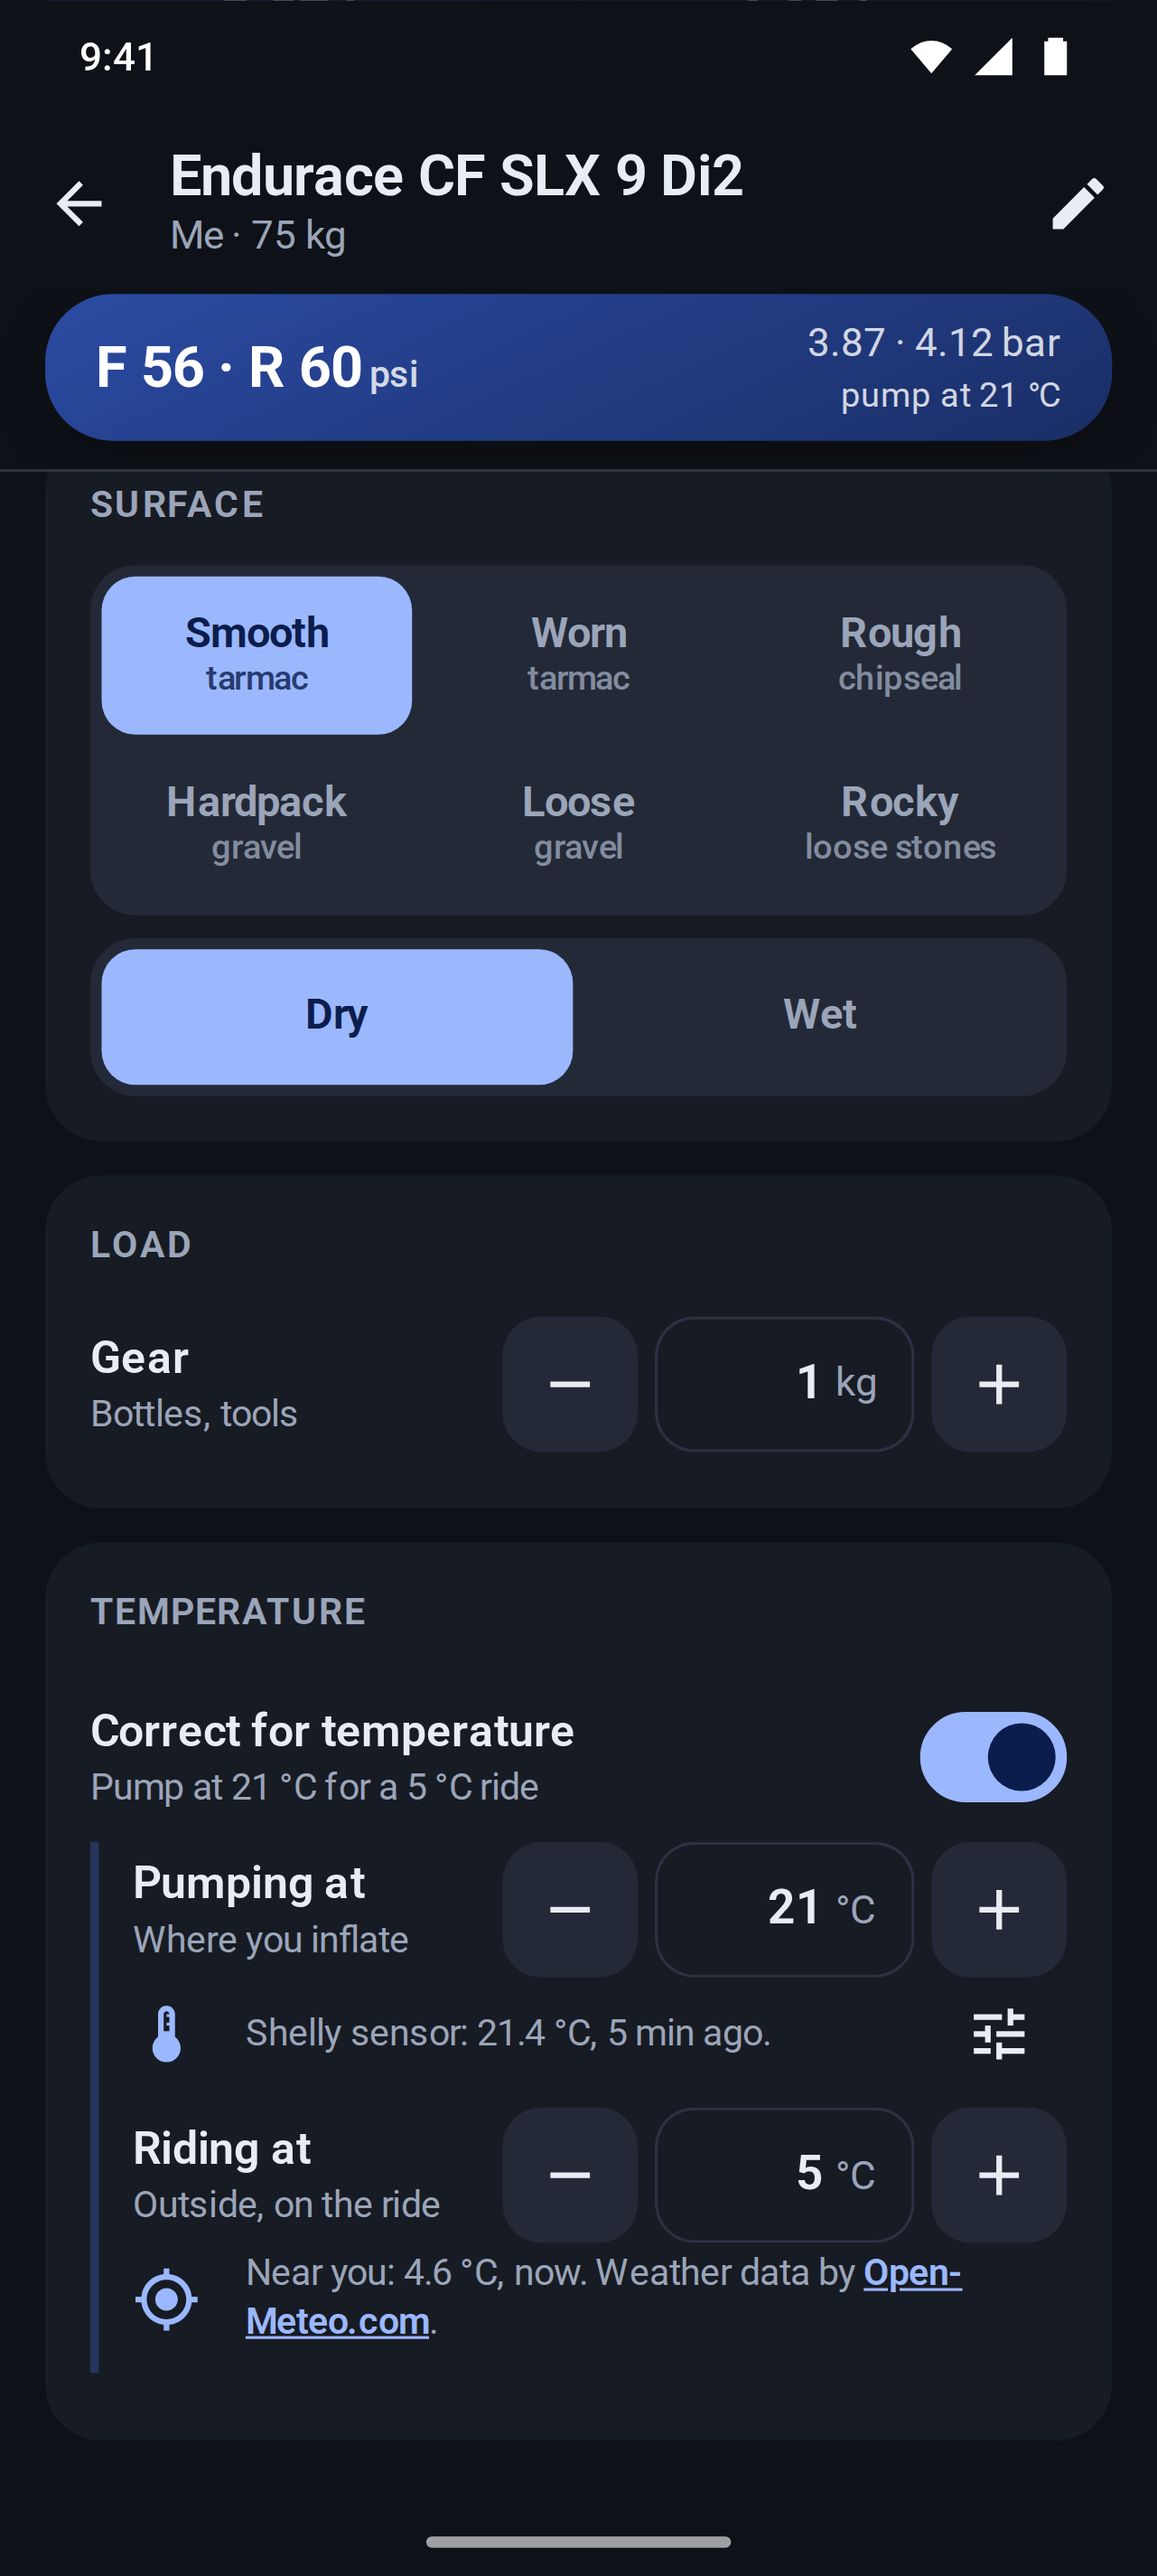
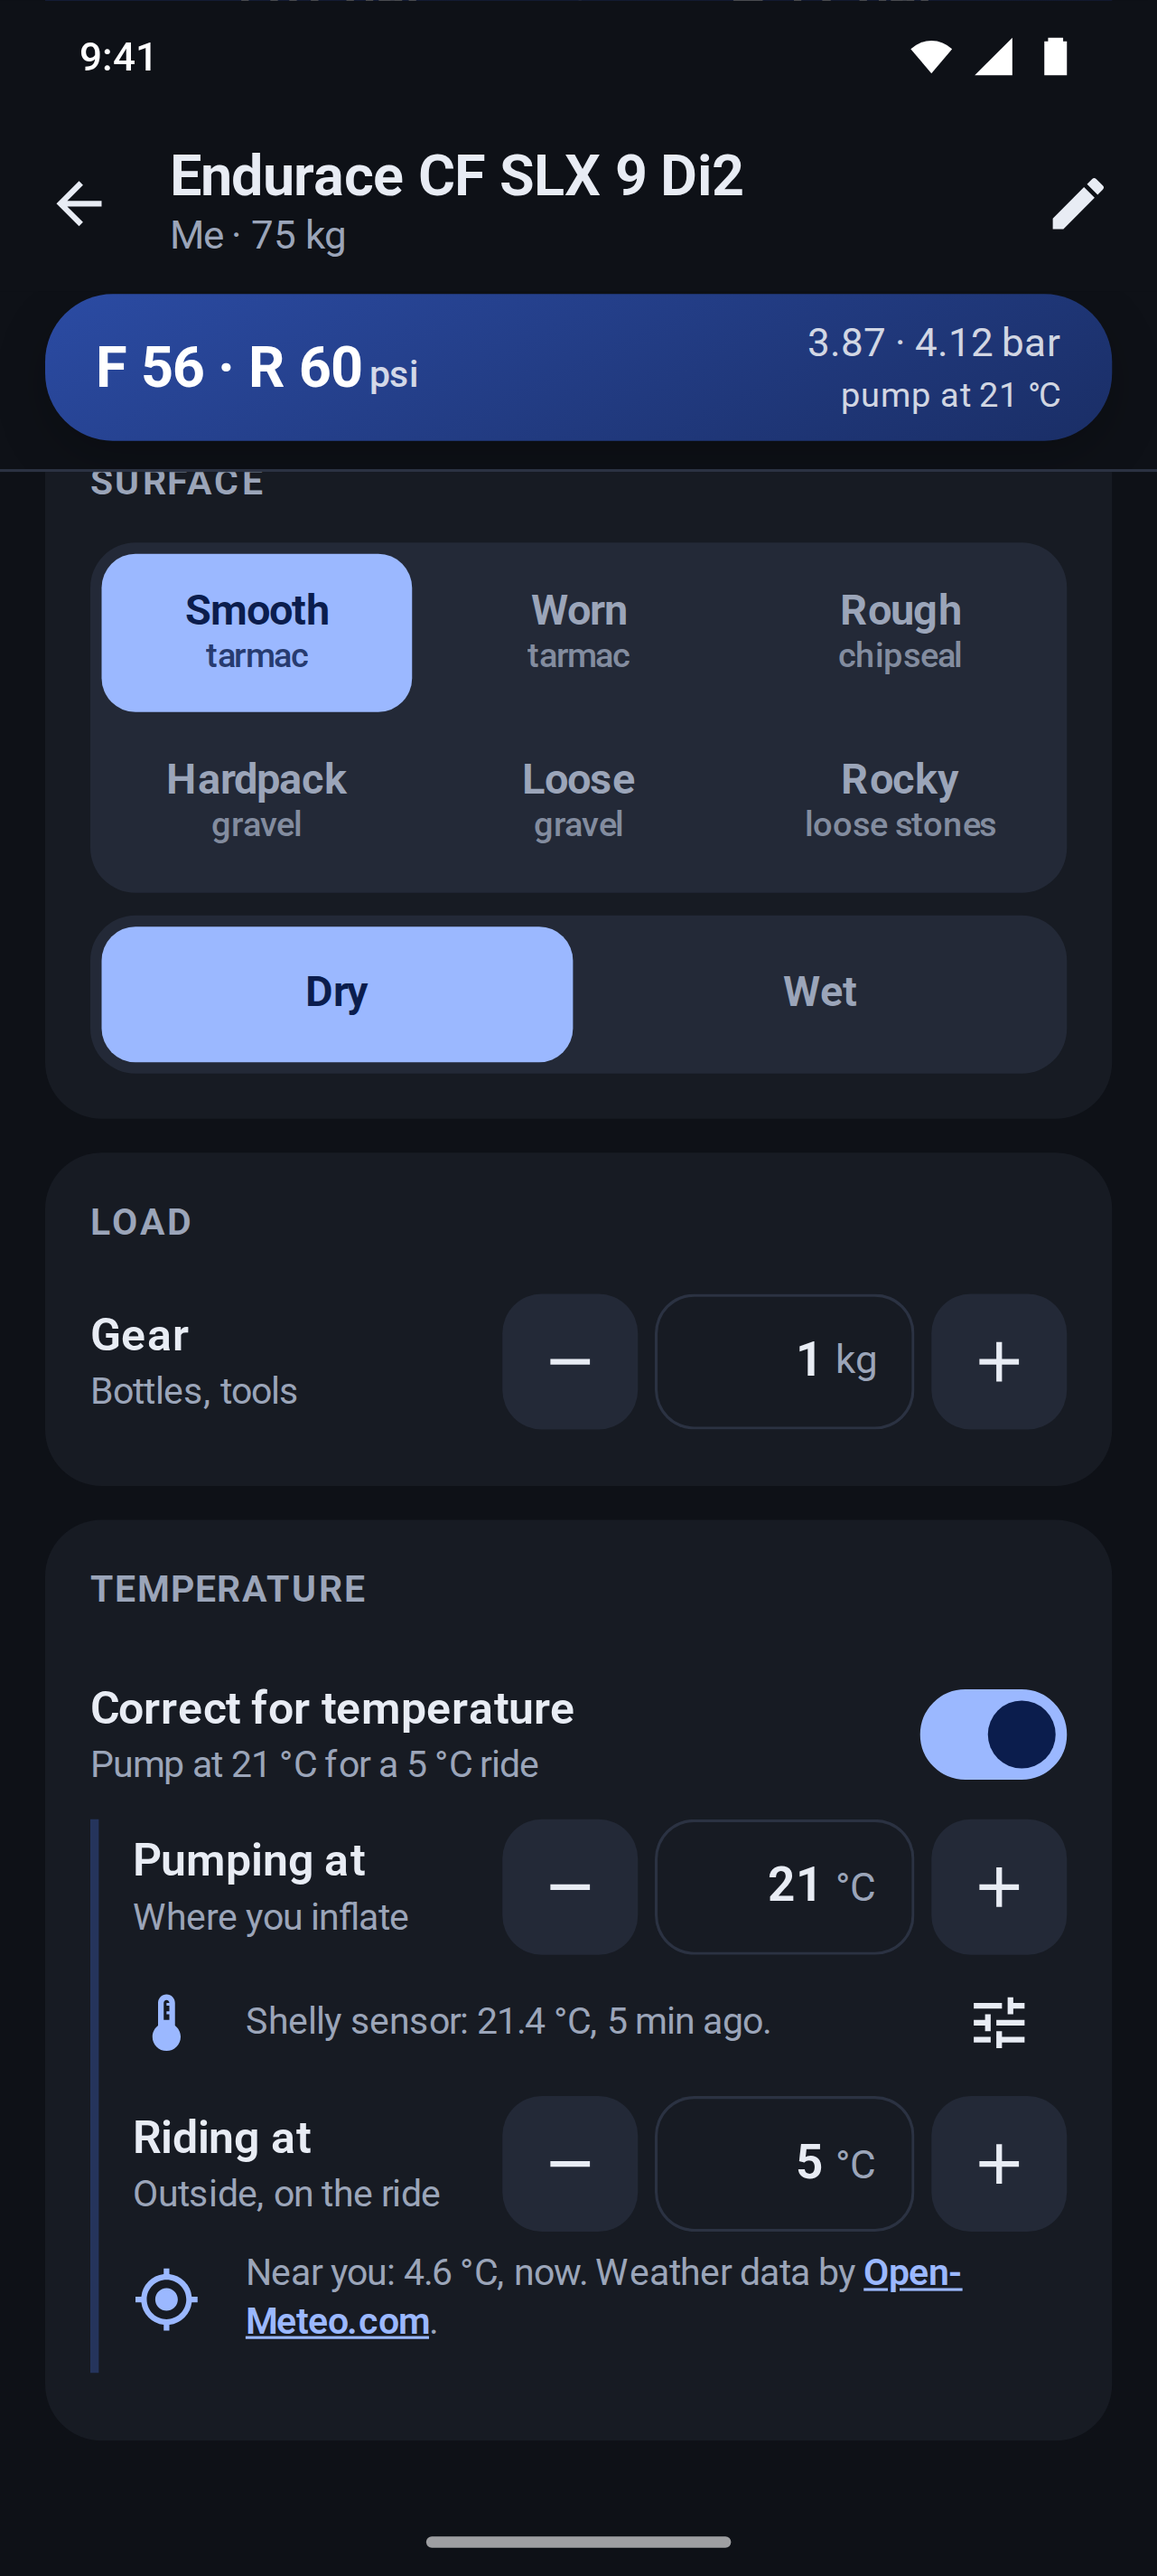
Address review: touch-target gap, correction off, replaced sensor
- Keep 4px under each temperature stepper so the lookup buttons below
  don't overlap its buttons.
- A lookup without a tap that was waiting on the location permission no
  longer starts if the correction was switched off meanwhile; switching
  it on again retries.
- A pending lookup or status of a Shelly sensor that was replaced or
  removed in setup is dropped, and the new sensor is read instead.

Copilot-Session: 3d525f9b-893c-43fc-98da-bfccfda4126c

diff --git a/src/ui/lookups.ts b/src/ui/lookups.ts
@@ -46,6 +46,12 @@ interface Pending {
   auto: boolean;
 }
 
+/** Forgets what was read from another source, such as a sensor the user replaced. */
+function useSource(memo: TempMemo, source: string): void {
+  if (memo.source === source) return;
+  Object.assign(memo, { source, pending: null, status: null, autoStarted: false });
+}
+
 /** What the ride screen remembers about one temperature while the user stays on a bike, sub-screens included. */
 export interface TempMemo {
   /** The user's own changes: a lookup never overwrites one, and none starts without a tap after one. */
@@ -54,8 +60,10 @@ export interface TempMemo {
   autoStarted: boolean;
   pending: Pending | null;
   status: Status | null;
+  /** Where the pending lookup and the status come from. */
+  source: string;
   /** The latest ride screen built for this temperature, which shows lookups and their outcome. */
-  view: { settle: (pending: Pending) => void; show: (status: Status) => void } | null;
+  view: { settle: (pending: Pending) => void; show: (status: Status) => void; enabled: () => boolean } | null;
 }
 
 export type TempKey = 'pumpC' | 'rideC';
@@ -65,7 +73,7 @@ let visit: { profileId: string; temps: Record<TempKey, TempMemo> } | null = null
 /** Starts a visit to a bike's ride screen, or continues it when back from editing the bike or the sensor. */
 export function rideVisit(profileId: string): Record<TempKey, TempMemo> {
   if (visit?.profileId !== profileId) {
-    const memo = (): TempMemo => ({ edits: 0, autoStarted: false, pending: null, status: null, view: null });
+    const memo = (): TempMemo => ({ edits: 0, autoStarted: false, pending: null, status: null, source: '', view: null });
     visit = { profileId, temps: { pumpC: memo(), rideC: memo() } };
   }
   return visit.temps;
@@ -85,6 +93,8 @@ export interface LookupTarget {
   /** Sets the temperature, returning the value actually set: it differs when the reading is out of range. */
   apply: (tempC: number) => number;
   memo: TempMemo;
+  /** Whether the temperature correction is on: lookups without a tap only start then. */
+  enabled: () => boolean;
 }
 
 export interface Lookup {
@@ -109,6 +119,8 @@ export function lookupAction(options: {
   /** Status while reading. */
   reading: string;
   read: () => Promise<Reading>;
+  /** Identifies what is read: a pending lookup or status from another source is dropped. */
+  source: string;
   target: LookupTarget;
   /** Status after a successful read, e.g. "Shelly sensor: 21.4 °C, now." */
   done: (reading: string) => Status;
@@ -117,6 +129,7 @@ export function lookupAction(options: {
   extra?: Node;
 }): Lookup {
   const { memo } = options.target;
+  useSource(memo, options.source);
   const status = h('p', { class: 'temp-status', 'aria-live': 'polite' });
   const button = h(
     'button',
@@ -139,8 +152,8 @@ export function lookupAction(options: {
     try {
       const reading = await pending.reading;
       // The ride screen was left meanwhile: applying would save its outdated ride over newer
-      // changes. A rebuilt screen of the same visit applies the reading instead.
-      if (!button.isConnected) return;
+      // changes. A rebuilt screen of the same visit applies the reading instead, unless it dropped it.
+      if (!button.isConnected || memo.pending !== pending) return;
       memo.pending = null;
       if (memo.edits !== pending.edits) {
         remember({ text: 'Kept the temperature you set meanwhile.' });
@@ -153,7 +166,7 @@ export function lookupAction(options: {
       if (stale) done.text += ' This reading is old: is the sensor online?';
       remember({ ...done, tone: stale ? 'warn' : undefined });
     } catch (error) {
-      if (!button.isConnected) return;
+      if (!button.isConnected || memo.pending !== pending) return;
       memo.pending = null;
       remember({ text: errorMessage(error), tone: pending.auto ? undefined : 'error' });
     } finally {
@@ -175,6 +188,11 @@ export function lookupAction(options: {
     memo.autoStarted = true;
     const allowed = options.untapped ? await options.untapped() : true;
     if (!inVisit(memo) || memo.pending || memo.edits > 0) return;
+    // Switched off meanwhile: switching it on again tries again.
+    if (!memo.view?.enabled()) {
+      memo.autoStarted = false;
+      return;
+    }
     if (allowed === true) start(true);
     else {
       memo.status = allowed;
@@ -182,7 +200,7 @@ export function lookupAction(options: {
     }
   }
 
-  memo.view = { settle: (pending) => void settle(pending), show };
+  memo.view = { settle: (pending) => void settle(pending), show, enabled: options.target.enabled };
   if (memo.pending) void settle(memo.pending);
   else show(memo.status ?? { text: options.label });
   return {
@@ -195,6 +213,8 @@ export function lookupAction(options: {
 export function shellyAction(app: App, target: LookupTarget): Lookup {
   const config = app.shelly();
   if (!config) {
+    useSource(target.memo, '');
+    target.memo.view = null;
     return {
       el: h(
         'div',
@@ -209,6 +229,7 @@ export function shellyAction(app: App, target: LookupTarget): Lookup {
     icon: 'thermostat',
     reading: 'Reading the Shelly sensor…',
     read: () => readShelly(config),
+    source: `shelly:${JSON.stringify(config)}`,
     target,
     done: (reading) => ({ text: `Shelly sensor: ${reading}.` }),
     extra: iconButton('tune', 'Shelly sensor setup', () => app.navigate('#/sensor')),
@@ -237,6 +258,7 @@ export function weatherAction(app: App, target: LookupTarget): Lookup {
       if (mayLocateUntapped(permission, app.locationDeclined())) return true;
       return { text: permission === 'denied' ? 'Location access is off for this app.' : 'Tap to use the local weather.' };
     },
+    source: 'weather',
     target,
     done: (reading) => ({ text: `Near you: ${reading}.`, attribution: true }),
   });

diff --git a/screenshots/app.spec.ts b/screenshots/app.spec.ts
@@ -318,6 +318,10 @@ test('pump and ride temperatures from a Shelly sensor and the local weather', as
   expect(shellyBodies).toHaveLength(2);
   expect(weatherUrls).toHaveLength(1);
   await expect(page.locator('.wheel-ride').first()).toContainText('at 5\u00a0°C');
+  // The compact lookup line keeps its buttons clear of the stepper's.
+  const plus = await page.getByRole('button', { name: 'Increase Pump temperature' }).boundingBox();
+  const setup = await page.getByRole('button', { name: 'Shelly sensor setup' }).boundingBox();
+  expect(setup!.y).toBeGreaterThanOrEqual(plus!.y + plus!.height);
   await page.evaluate(() => window.scrollTo(0, document.body.scrollHeight));
   await page.waitForTimeout(300);
   await shoot(page, '9-temperature-lookup');
@@ -462,6 +466,35 @@ test('blocked location access is never asked for without a tap', async ({ page }
   expect(errors).toEqual([]);
 });
 
+test('switching the correction off before the location is asked for asks nothing', async ({ page }) => {
+  await page.addInitScript(() => {
+    const w = window as unknown as { answerPermission: () => void };
+    const asked = new Promise<void>((resolve) => (w.answerPermission = resolve));
+    const query = navigator.permissions.query.bind(navigator.permissions);
+    navigator.permissions.query = (descriptor) =>
+      descriptor.name === 'geolocation' ? asked.then(() => ({ state: 'prompt' }) as PermissionStatus) : query(descriptor);
+    navigator.geolocation.getCurrentPosition = (ok) => {
+      sessionStorage.setItem('locates', String(Number(sessionStorage.getItem('locates')) + 1));
+      ok({ coords: { latitude: 45.46, longitude: 9.19 } } as GeolocationPosition);
+    };
+  });
+  await page.route('https://api.open-meteo.com/**', (route) =>
+    route.fulfill({ headers: cors, json: { current: { time: new Date().toISOString().slice(0, 16), temperature_2m: 12 } } }),
+  );
+  const locates = () => page.evaluate(() => Number(sessionStorage.getItem('locates')));
+  await open(page, '#/ride/seed-endurace');
+  const toggle = page.getByRole('switch', { name: /Correct for temperature/ });
+  await toggle.click();
+  await toggle.click();
+  await page.evaluate(() => (window as unknown as { answerPermission: () => void }).answerPermission());
+  await page.waitForTimeout(200);
+  expect(await locates()).toBe(0);
+  // Switching it on again does look it up.
+  await toggle.click();
+  await expect(page.getByRole('textbox', { name: /Ride temperature/ })).toHaveValue('12');
+  expect(await locates()).toBe(1);
+});
+
 test('a lookup never overwrites a temperature set while it was pending', async ({ page, context }) => {
   let respond!: () => void;
   let answered!: Promise<void>;
@@ -580,6 +613,36 @@ test('a lookup that ends after leaving the bike changes nothing', async ({ page 
   await expect(rideTemp).toHaveValue('7');
   const saved = await page.evaluate(() => JSON.parse(localStorage.getItem('tire-pressure:v1')!).rides['seed-endurace']);
   expect(saved).toMatchObject({ temperature: true, pumpC: 25, rideC: 7 });
+});
+
+test('a lookup of a sensor replaced meanwhile is dropped', async ({ page }) => {
+  await page.addInitScript(SHELLY_KEY);
+  let respond!: () => void;
+  const answered = new Promise<void>((resolve) => (respond = resolve));
+  const devices: string[] = [];
+  await page.route(SHELLY_STATUS, async (route) => {
+    const id = new URLSearchParams(route.request().postData() ?? '').get('id')!;
+    devices.push(id);
+    // The old sensor answers late, the new one at once.
+    if (id === 'e4b063d1a2b4') await answered;
+    const tC = id === 'e4b063d1a2b4' ? 30 : 25;
+    await route.fulfill({ headers: cors, json: { isok: true, data: { device_status: { 'temperature:0': { tC } } } } });
+  });
+  await open(page, '#/ride/seed-endurace');
+  await page.getByRole('switch', { name: /Correct for temperature/ }).click();
+  await expect(page.getByText('Reading the Shelly sensor…')).toBeVisible();
+  await page.getByRole('button', { name: 'Shelly sensor setup' }).click();
+  await page.getByRole('textbox', { name: 'Device ID' }).fill('e4b063d1a2b5');
+  await page.getByRole('button', { name: 'Save' }).click();
+  await expect(page).toHaveURL(/#\/ride\/seed-endurace$/);
+  const pump = page.getByRole('textbox', { name: /Pump temperature/ });
+  // The new sensor is read instead.
+  await expect(pump).toHaveValue('25');
+  await expect(page.getByText('Shelly sensor: 25\u00a0°C.')).toBeVisible();
+  respond();
+  await page.waitForTimeout(200);
+  await expect(pump).toHaveValue('25');
+  expect(devices).toEqual(['e4b063d1a2b4', 'e4b063d1a2b5']);
 });
 
 test('a lookup that ends while editing the bike applies on coming back', async ({ page }) => {

diff --git a/src/style.css b/src/style.css
@@ -875,7 +875,8 @@ button {
 /* The temperature rows are as tall as their steppers. */
 .reveal-temp .row {
   min-height: 48px;
-  padding: 0;
+  /* Keeps the lookup buttons below clear of the stepper's. */
+  padding: 0 0 4px;
 }
 
 /* Looking up a temperature (Shelly sensor, local weather): a button and its status, under the stepper. */

diff --git a/src/ui/views.ts b/src/ui/views.ts
@@ -407,6 +407,7 @@ export function rideView(app: App, profile: Profile): Node {
       return value;
     },
     memo: temps[key],
+    enabled: () => ride.temperature,
   });
   const pumpLookup = shellyAction(app, fill('pumpC', pumpStepper));
   const rideLookup = weatherAction(app, fill('rideC', rideStepper));
